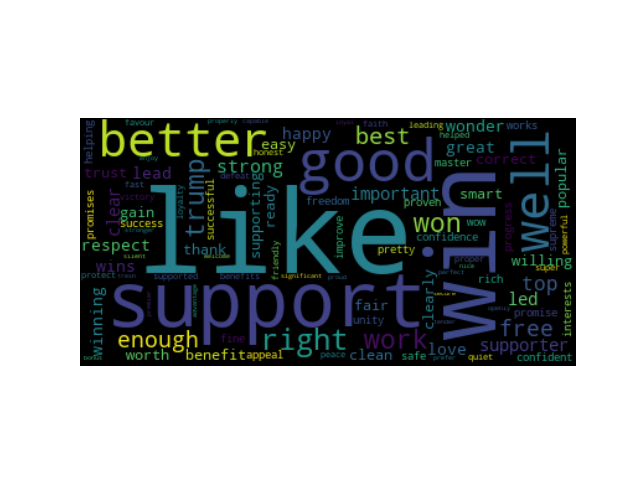
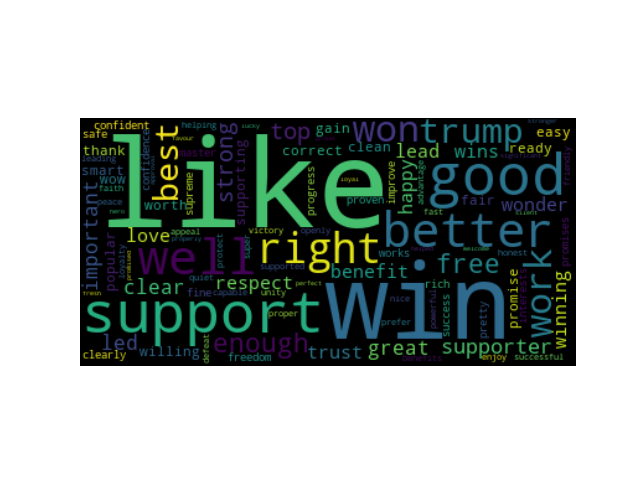
Analyzed latest data from April

Changed region(s): [[0.125, 0.25, 0.9062, 0.75]]

diff --git a/analysis/_3_label_semantic/main.py b/analysis/_3_label_semantic/main.py
@@ -2,11 +2,11 @@ from analysis.libs.AnalysisRunner import AnalysisRunner
 from analysis._3_label_semantic.for_chinese import for_chinese
 from analysis._3_label_semantic.for_english import for_english
 
-DATE = '20180313_'
+DATE = '20180327_'
 class LabelSemantics(AnalysisRunner):
     def run_english(self):
-        for_english(DATE)
+        for_english('20180313_')
     def run_chinese(self):
-        for_chinese(DATE)
+        for_chinese('20180327_')
 
 LabelSemantics().run()

diff --git a/analysis/_4_classification/extract_data.py b/analysis/_4_classification/extract_data.py
@@ -17,6 +17,8 @@ def extract_data(all_posts, start_date, end_date, language):
         if post['date'] != current.strftime("%Y%m%d"):
             current += timedelta(days=1)
             index += 1
+            if index >= length:
+                break
         for name in post['related_to']:
             if not name in data:
                 data[name] = create_semantic_object(length)

diff --git a/analysis/_4_classification/main.py b/analysis/_4_classification/main.py
@@ -9,8 +9,8 @@ from analysis.libs.log import log
 from analysis.libs.save_posts import save_posts
 import json
 
-START_DATE = '20170701'
-END_DATE = '20171231'
+START_DATE = '20180101'
+END_DATE = '20180430'
 
 
 def main(language):
